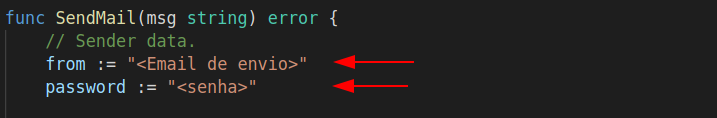
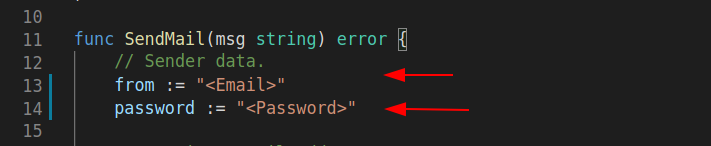
email config

diff --git a/src/actions/util.go b/src/actions/util.go
@@ -10,8 +10,8 @@ import (
 
 func SendMail(msg string) error {
 	// Sender data.
-	from := "<Email de envio>"
-	password := "<senha>"
+	from := "<Email>"
+	password := "<Password>"
 
 	// Receiver email address.
 	to := []string{
